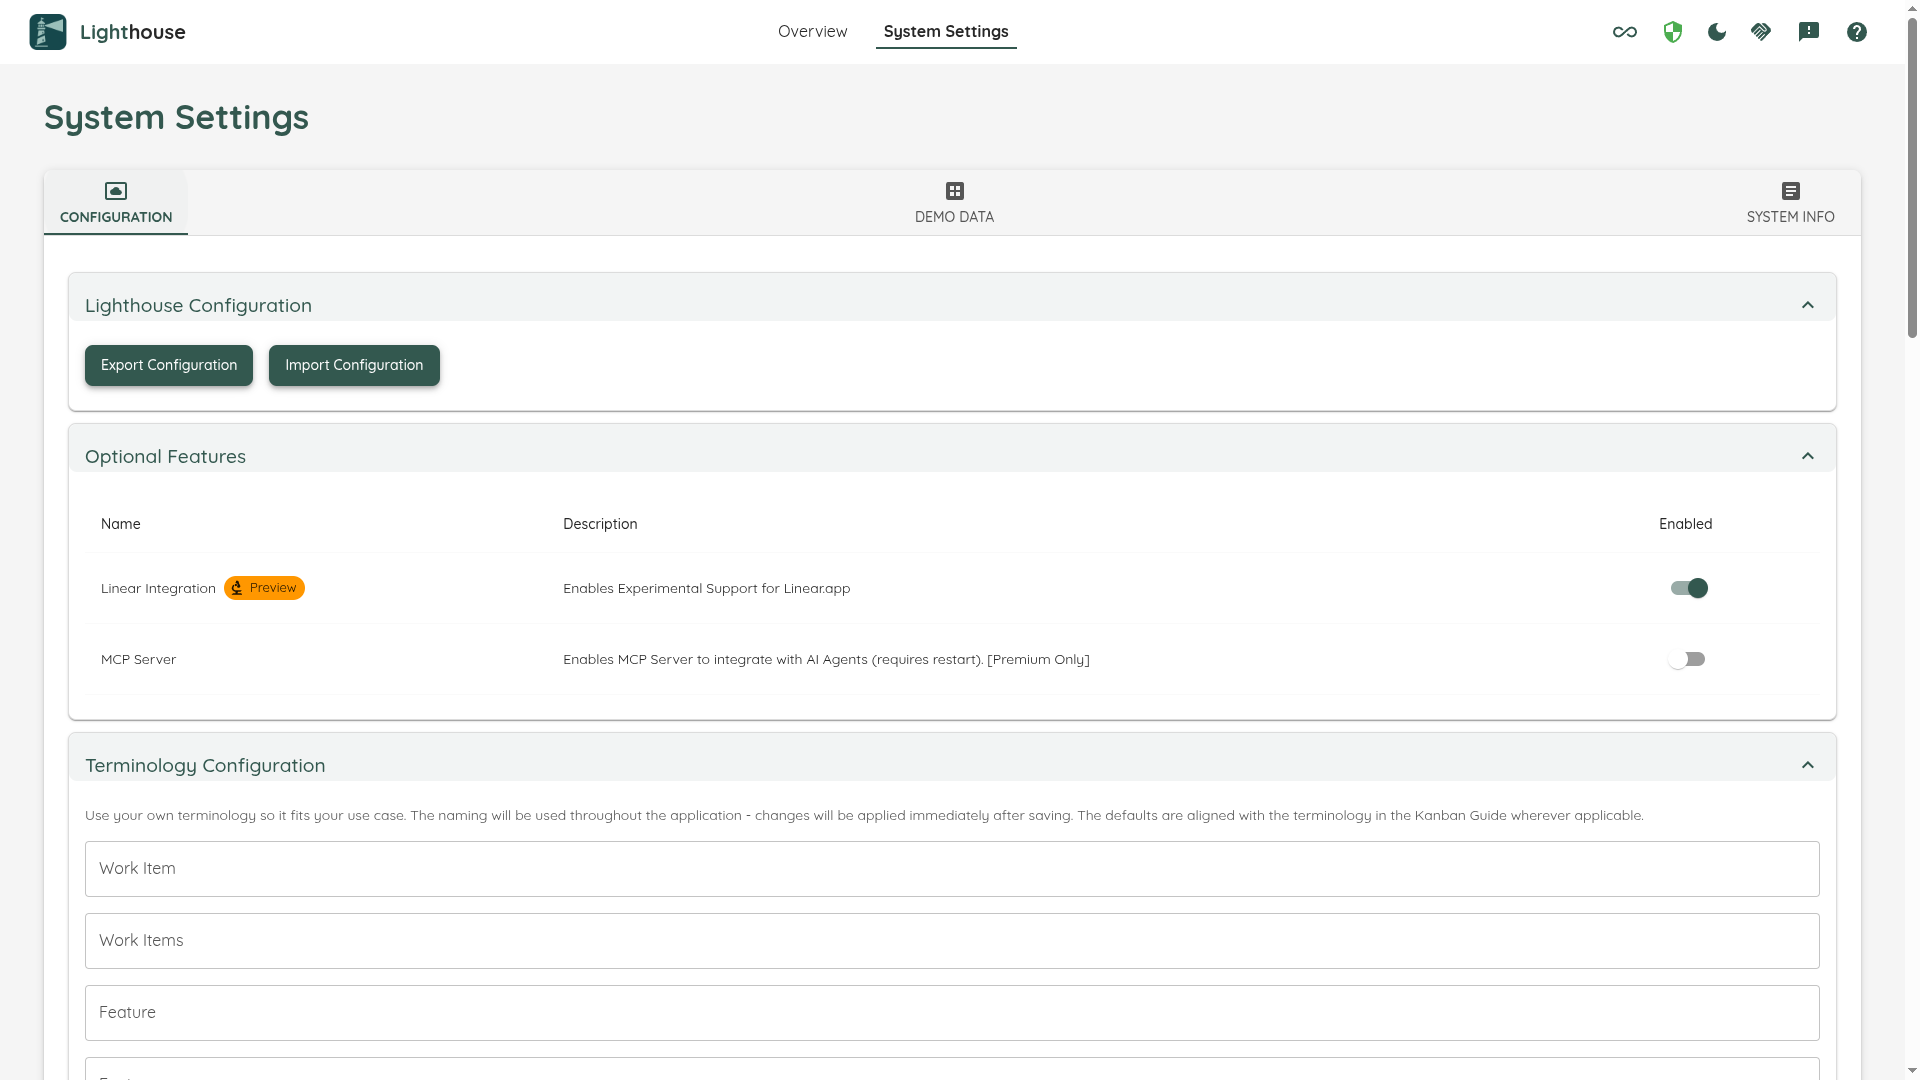
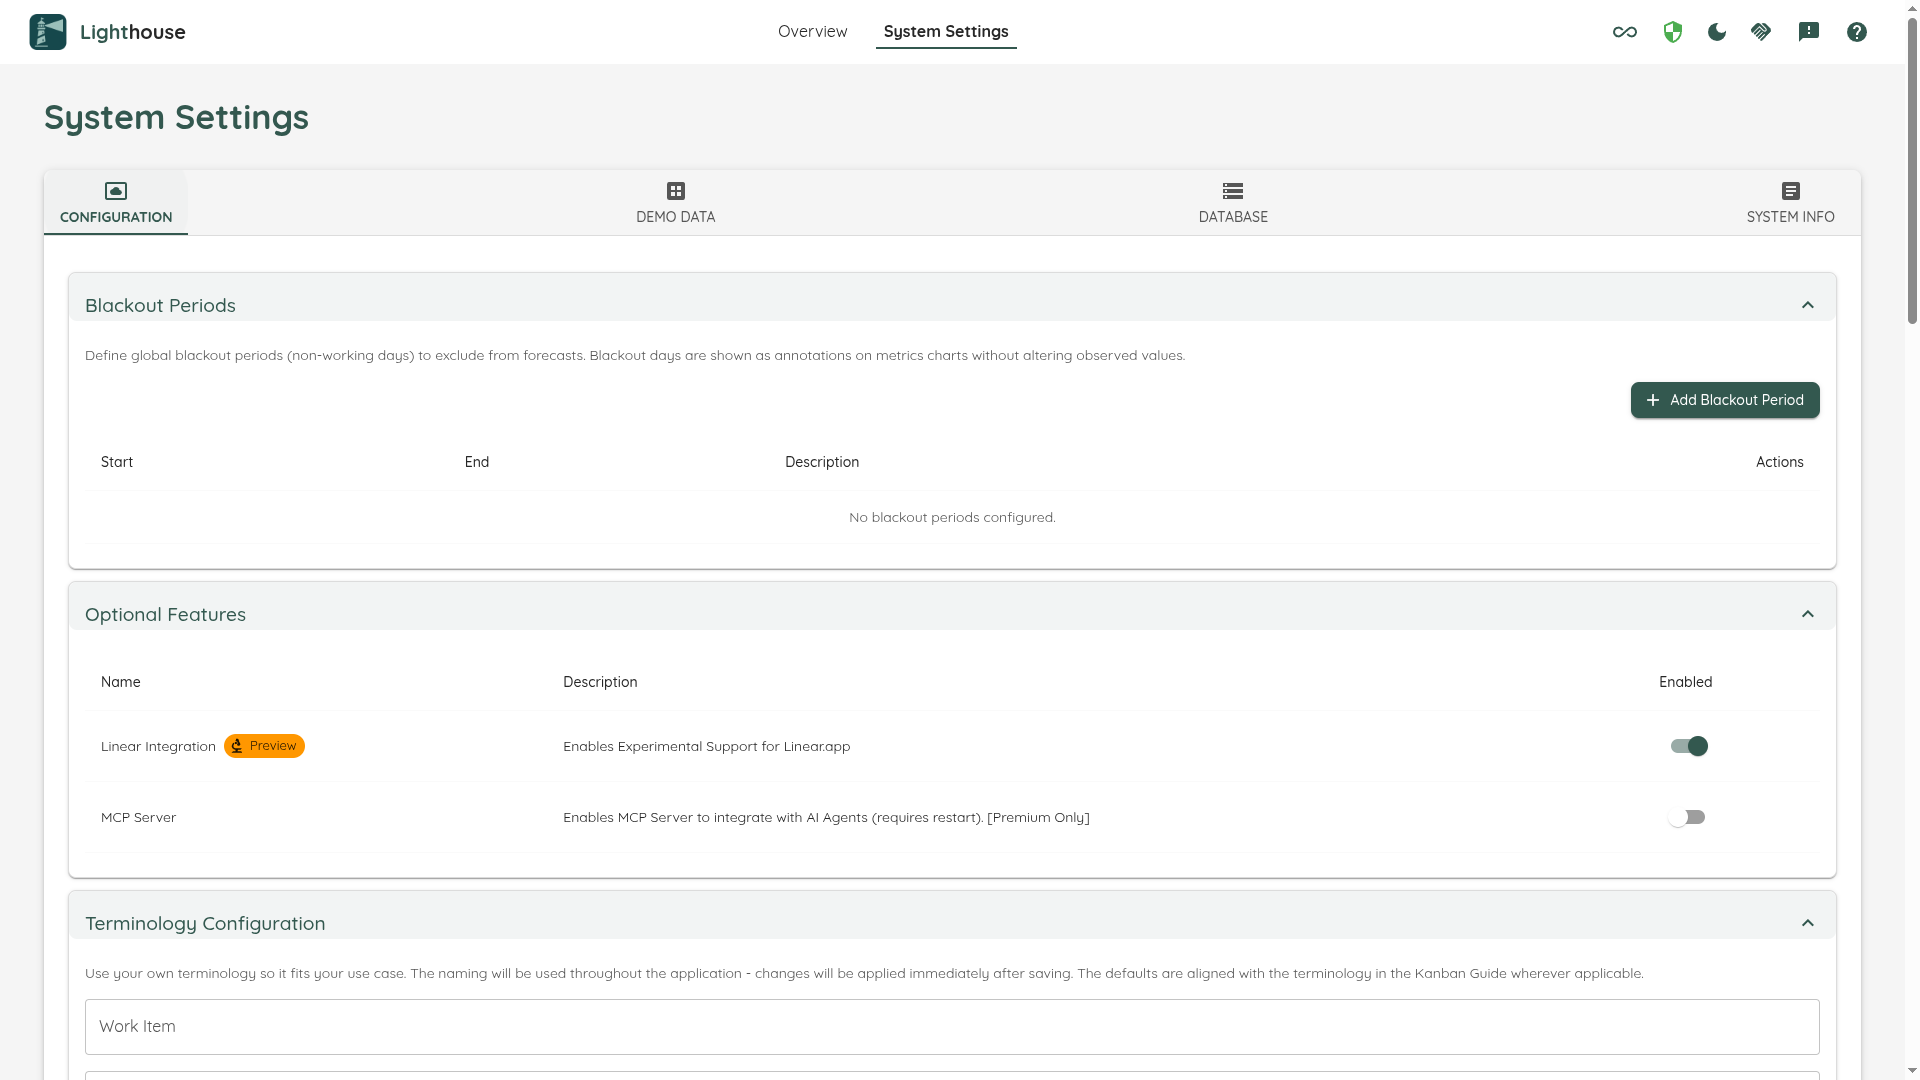
Add Documentation for database management

diff --git a/docs/settings/databasemanagement.md b/docs/settings/databasemanagement.md
@@ -1,0 +1,86 @@
+---
+title: Database Management
+layout: home
+parent: System Settings
+nav_order: 4
+---
+
+# Database Management
+
+The **Database Management** page (found under *System Settings → Database Management*) lets you back up, restore, and clear the Lighthouse database directly from the UI — no command-line access or manual file system operations required.
+
+![Database Management](../assets/settings/databasemanagement.png)
+
+## Operations
+
+### Backup
+
+Creates an encrypted snapshot of the current database and downloads it to your machine as a single `.zip` file.
+
+**How to create a backup:**
+1. Enter a password in the *Backup password* field.
+2. Click **Create Backup**.
+3. The file is downloaded automatically with the name `Lighthouse_Backup_<date>.zip`.
+
+**Keep your password safe.** It is required to restore the backup later. Lighthouse does not store it anywhere and there is no recovery mechanism if you lose it.
+
+The backup file is AES-256 encrypted (PBKDF2 key derivation, SHA-256, 100 000 iterations). It contains all database content plus a `manifest.json` with metadata (provider name, creation date, app version).
+
+---
+
+### Restore
+
+Replaces the current database with the contents of a previously created backup file. **All existing data is overwritten.**
+
+**How to restore:**
+1. Select the `.zip` backup file using the file picker.
+2. Enter the password that was used when the backup was created.
+3. Click **Restore**.
+
+All running forecasts and background updates are paused until the restart completes.
+
+If the wrong password is supplied the operation fails immediately with an error — no data is changed.
+
+---
+
+### Clear
+
+Removes all data from the database and resets it to a clean state (empty, but fully initialised). This is equivalent to starting with a fresh installation.
+
+A confirmation dialog is shown before any data is deleted.
+
+{: .warning }
+> **This is irreversible.** Create a backup first if you want to be able to recover your data.
+
+---
+
+## Concurrent Operations
+
+Only one database operation can run at a time. If a backup, restore, or clear is already in progress, any new request is rejected immediately. In addition, while a database operation is running, all background work (team updates, forecast refreshes, etc.) is paused to prevent data corruption.
+
+The UI shows a warning banner when operations are blocked.
+
+---
+
+## Supported Providers
+
+| Provider | Backup format | Extra tooling required |
+|---|---|---|
+| **SQLite** | Raw database files (`.db`, `.db-wal`, `.db-shm`) | None — works out of the box |
+| **PostgreSQL** | Custom `pg_dump` archive (`lighthouse.pgdump`) | `pg_dump`, `pg_restore`, and `psql` must be installed |
+
+The active provider is shown on the page. You cannot change the provider from this screen — that is controlled by your Lighthouse configuration.
+
+---
+
+## PostgreSQL: Required Tooling
+
+For PostgreSQL installations, the **postgresql-client** tools (`pg_dump`, `pg_restore`, `psql`) must be available on the machine where Lighthouse is running. Without them, backup and restore operations are disabled.
+
+If the tools are missing, the UI shows a warning with a link to [postgresql.org/download](https://www.postgresql.org/download/) where you can install them.
+
+**Docker users:** The official Lighthouse Docker image already includes `postgresql-client`. No additional steps are required.
+
+**Self-hosted / bare-metal:** Install the `postgresql-client` package appropriate for your operating system. The major version of the client tools does not need to match your PostgreSQL server version exactly, but it is recommended to keep them reasonably aligned.
+
+The exact version detected on the server is displayed on the page next to the provider name when tooling is available.

diff --git a/docs/releasenotes/releasenotes.md b/docs/releasenotes/releasenotes.md
@@ -28,6 +28,31 @@ Blackout periods are configured globally in *System Settings* → *Configuration
 
 ![Throughput with Blackout](https://raw.githubusercontent.com/LetPeopleWork/Lighthouse/refs/heads/main/docs/assets/settings/blackoutPeriodsSection.png)
 
+## Database Management
+
+Lighthouse now includes built-in **Database Management** capabilities, available under *System Settings* → *Database Management*. You can create encrypted backups of your database, restore from a previous backup, or clear all data — directly from the UI or via the REST API.
+
+**Key capabilities:**
+
+- **Backup**: Creates an AES-encrypted ZIP archive of your database. The backup is password-protected using PBKDF2 key derivation (SHA-256, 100 000 iterations). Downloads are available as a single file.
+- **Restore**: Upload a previously created backup to replace the current database. Lighthouse automatically restarts after a successful restore to ensure all services pick up the new data.
+- **Clear**: Removes all data from the database and restarts the application, giving you a clean slate.
+
+![Database Management](https://raw.githubusercontent.com/LetPeopleWork/Lighthouse/refs/heads/main/docs/assets/settings/databasemanagement.png)
+
+**Provider support:**
+
+| Provider | Backup format | Requirements |
+|---|---|---|
+| SQLite | Raw database files | None — works out of the box |
+| PostgreSQL | `pg_dump` / `pg_restore` | `postgresql-client` tools must be installed (included in the official Docker image) |
+
+**Operational notes:**
+
+- After a *Restore* or *Clear* operation, Lighthouse restarts automatically. The UI will show a brief offline indicator and reconnect once the backend is back.
+- While a database operation is in progress, all other data-modifying operations (team updates, forecasts, etc.) are blocked to prevent data corruption.
+- Backup passwords are never stored — keep them in a safe place.
+
 
 # Lighthouse v26.3.20.4
 

diff --git a/docs/settings/settings.md b/docs/settings/settings.md
@@ -21,5 +21,8 @@ General application settings that affect the overall Lighthouse behavior, includ
 ### [Demo Data](demodata.html)
 Load sample scenarios to explore Lighthouse features or for training purposes. Various scenarios are available covering different team situations and use cases.
 
+### [Database Management](databasemanagement.html)
+Backup, Restore, and Clear your database.
+
 ### [System Info](systeminfo.html)
 Access detailed information about your system as well as logging information for troubleshooting and monitoring Lighthouse operations, including log level configuration and log viewing capabilities.

diff --git a/docs/settings/configuration.md b/docs/settings/configuration.md
@@ -8,6 +8,8 @@ nav_order: 2
 # Configuration
 The Configuration Page shows some generally applicable settings that affect the overall Lighthouse behaviour.
 
+![Configuration Overview](../assets/settings/configuration.png)
+
 ## Blackout Periods
 Blackout periods let you mark specific dates or date ranges as *non-working days* — for example, public holidays, company off-days, or planned shutdowns.
 
